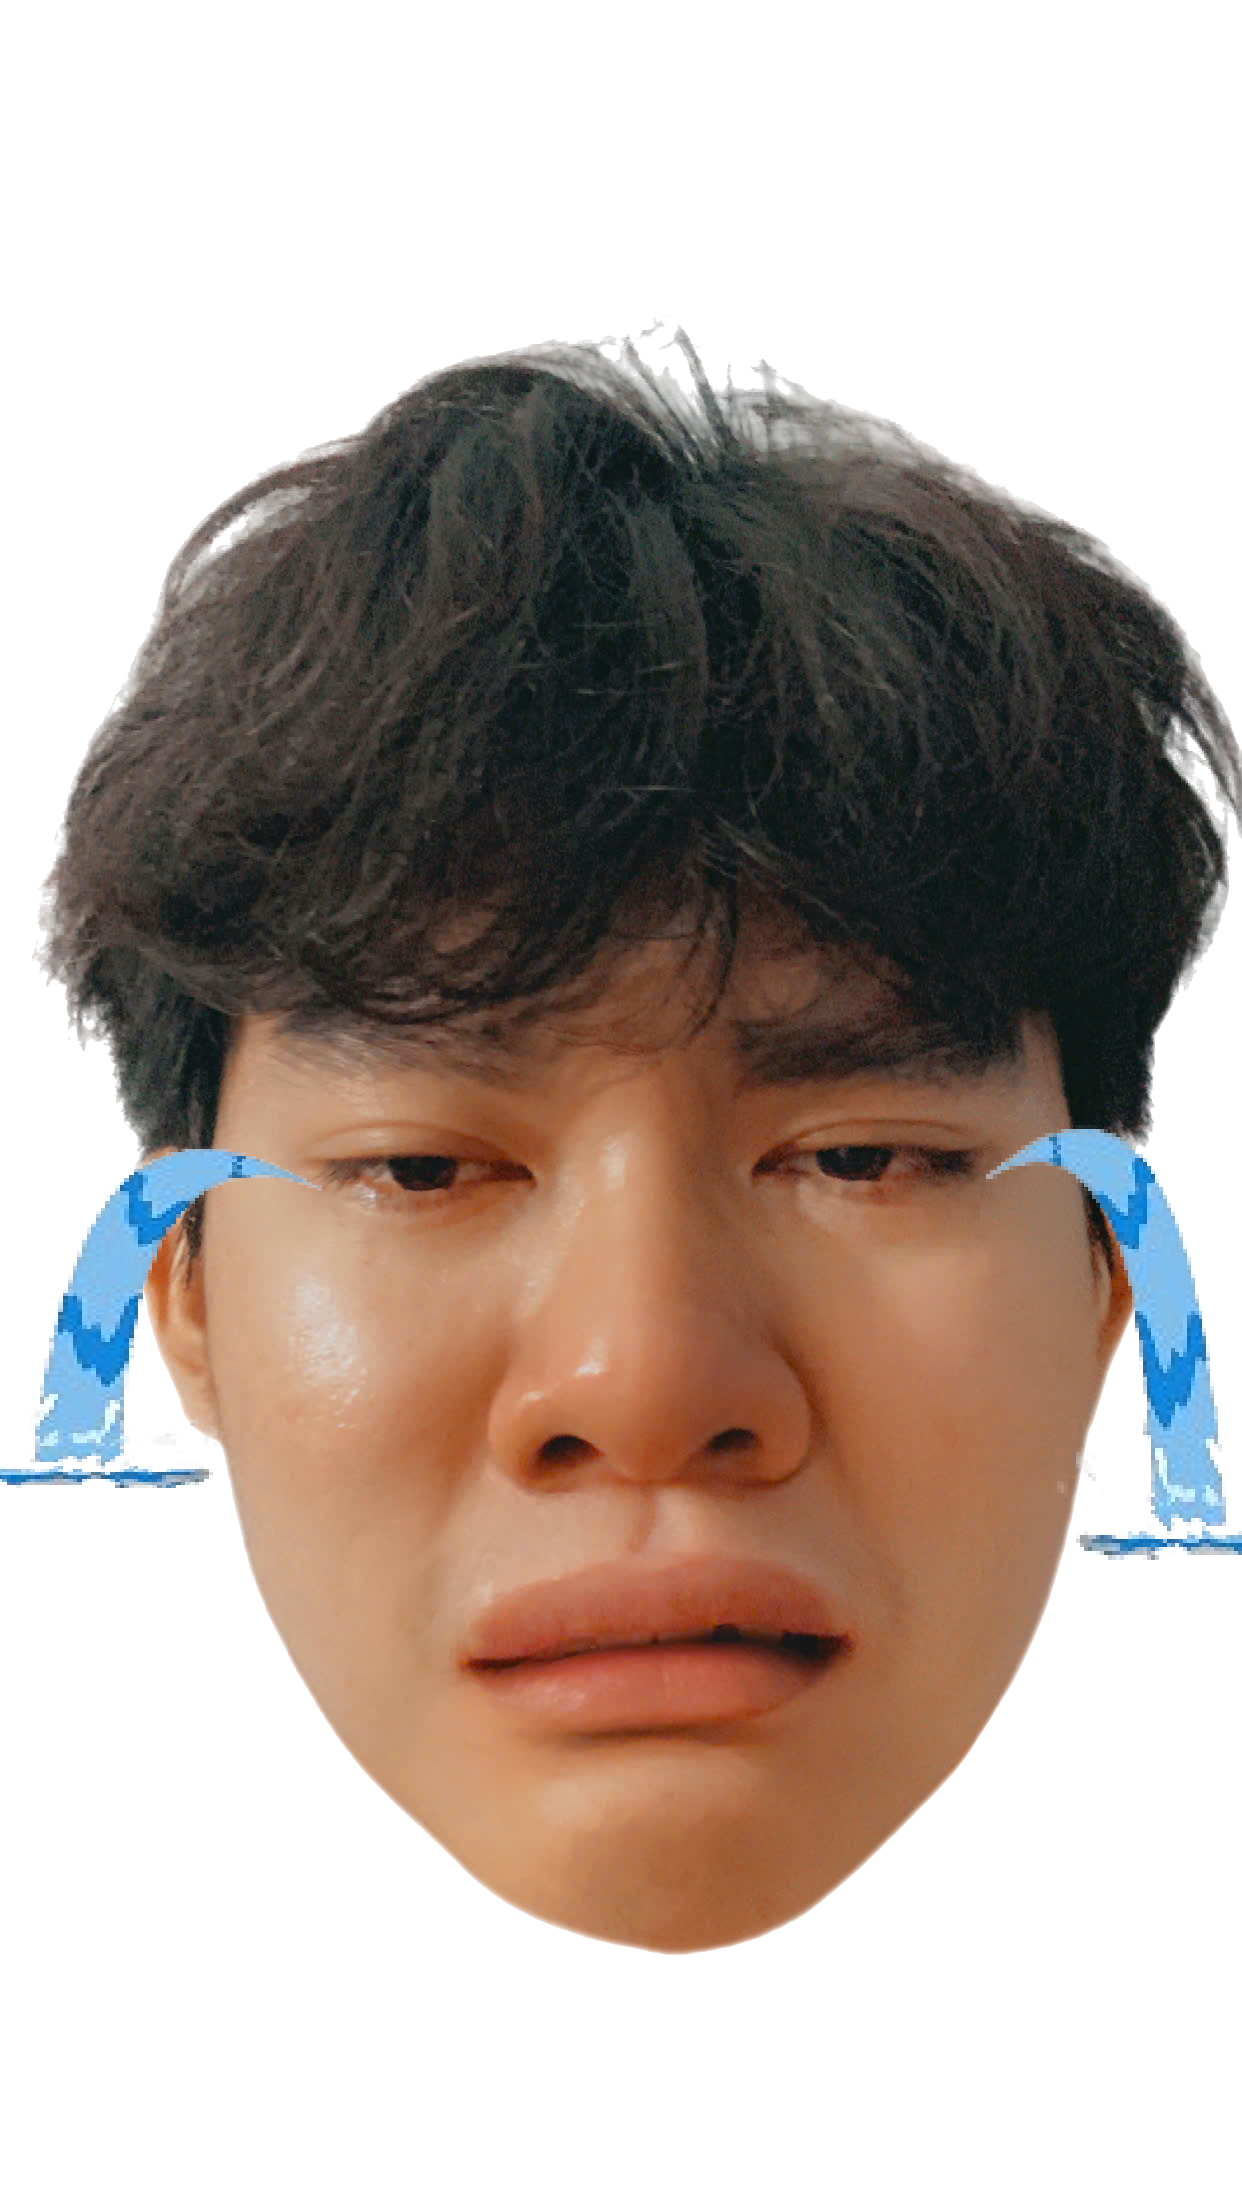
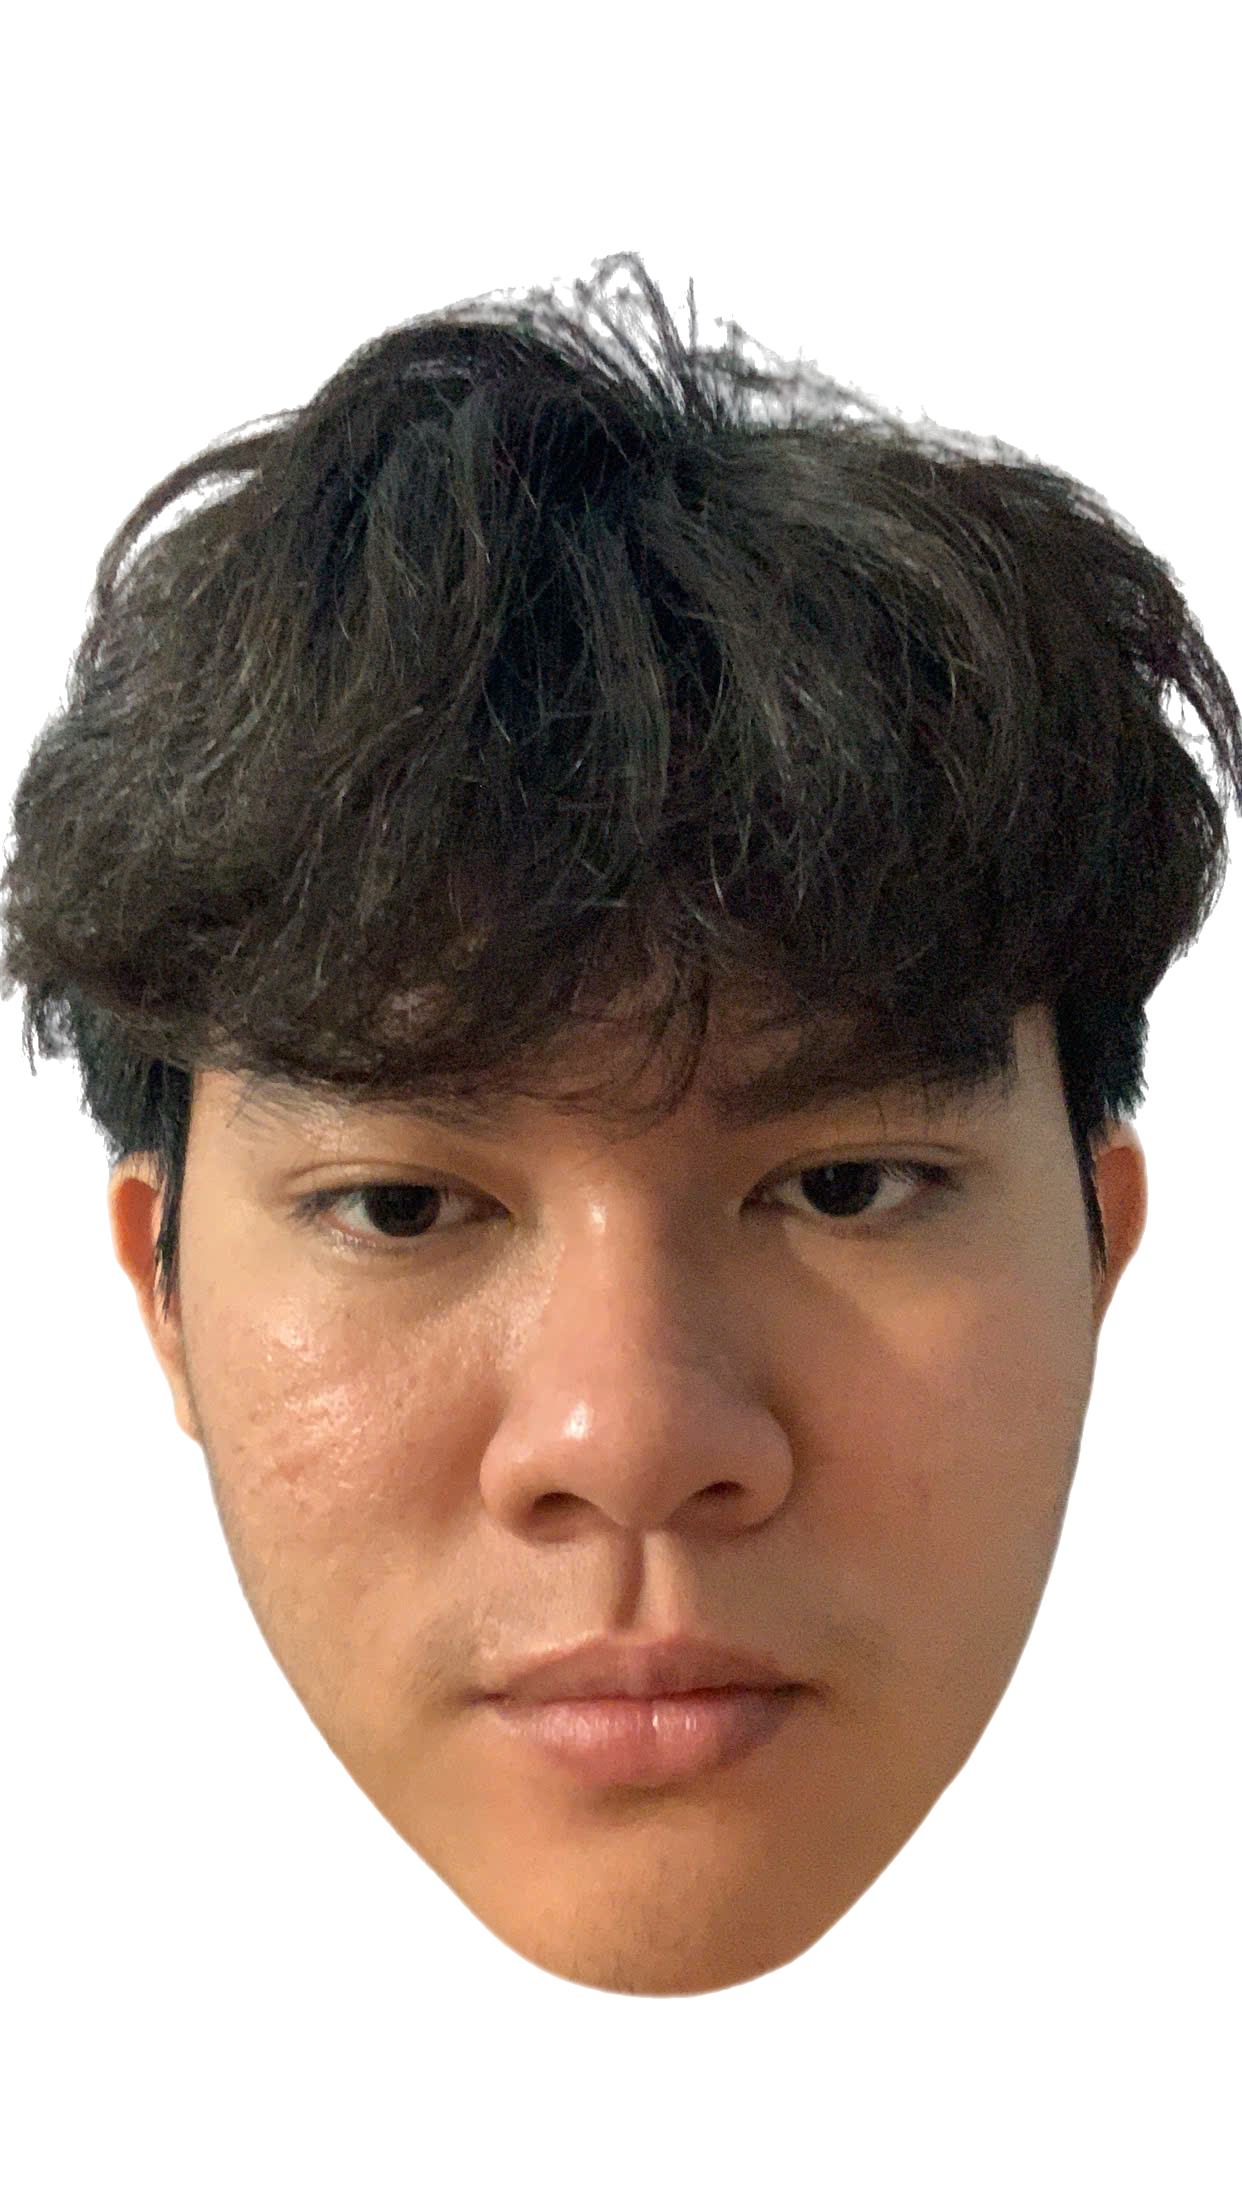
plDoll add TH

Changed region(s): [[0.0, 0.0938, 1.0, 0.9062]]

diff --git a/pages/plDoll/main.js b/pages/plDoll/main.js
@@ -34,6 +34,7 @@ Main.render = function () {
     const gameContainer = document.getElementById("game-container");
     const width = gameContainer.clientWidth;
     const height = gameContainer.clientHeight;
+    const startPosPL = 3*width / 4;
     const render = Render.create({
         element: gameContainer,
         engine: engine,
@@ -49,7 +50,7 @@ Main.render = function () {
     const runner = Runner.create();
     Runner.run(runner, engine);
 
-    const head = Bodies.circle(width / 2, height / 2, 80, { 
+    const head = Bodies.circle(startPosPL, height / 2, 80, { 
         restitution: 0.5,
         render: {
             sprite: {
@@ -59,7 +60,7 @@ Main.render = function () {
             }
         }
     });
-    const body = Bodies.rectangle(width / 2, height / 2 + 80, 50, 80, { 
+    const body = Bodies.rectangle(startPosPL, height / 2 + 80, 50, 80, { 
         restitution: 0.5,
         render: {
             sprite: {
@@ -69,7 +70,7 @@ Main.render = function () {
             }
         }
     });
-    const leftArm = Bodies.rectangle(width / 2 - 30, height / 2 + 80, 60, 15, { 
+    const leftArm = Bodies.rectangle(startPosPL - 30, height / 2 + 80, 60, 15, { 
         restitution: 0.5,
         render: {
             sprite: {
@@ -79,7 +80,7 @@ Main.render = function () {
             }
         }
     });
-    const rightArm = Bodies.rectangle(width / 2 + 30, height / 2 + 80, 60, 15, { 
+    const rightArm = Bodies.rectangle(startPosPL + 30, height / 2 + 80, 60, 15, { 
         restitution: 0.5,
         render: {
             sprite: {
@@ -89,7 +90,7 @@ Main.render = function () {
             }
         }
     });
-    const leftLeg = Bodies.rectangle(width / 2 - 10, height / 2 + 160, 20, 80, { 
+    const leftLeg = Bodies.rectangle(startPosPL - 10, height / 2 + 160, 20, 80, { 
         restitution: 0.5,
         render: {
             sprite: {
@@ -99,7 +100,7 @@ Main.render = function () {
             }
         }
     });
-    const rightLeg = Bodies.rectangle(width / 2 + 10, height / 2 + 160, 20, 80, { 
+    const rightLeg = Bodies.rectangle(startPosPL + 10, height / 2 + 160, 20, 80, { 
         restitution: 0.5,
         render: {
             sprite: {
@@ -159,9 +160,124 @@ Main.render = function () {
         stiffness: 1.0, 
         render: { visible: false } 
     });
+
+    const startPosTH = width / 4;
+
+    const headTH = Bodies.circle(startPosTH, height / 2, 80, { 
+        restitution: 0.5,
+        render: {
+            sprite: {
+                texture: 'images/headTH.png',
+                xScale: 0.45,
+                yScale: 0.45,
+            }
+        }
+    });
+    const bodyTH = Bodies.rectangle(startPosTH, height, 50, 80, { 
+        restitution: 0.5,
+        render: {
+            sprite: {
+                texture: 'images/bodyTH.png',
+                xScale: 0.4,
+                yScale: 0.4,
+            }
+        }
+    });
+    const leftArmTH = Bodies.rectangle(startPosTH - 30, height / 2 + 80, 60, 15, { 
+        restitution: 0.5,
+        render: {
+            sprite: {
+                texture: 'images/arm.png',
+                xScale: 0.3,
+                yScale: 0.3,
+            }
+        }
+    });
+    const rightArmTH = Bodies.rectangle(startPosTH + 30, height / 2 + 80, 60, 15, { 
+        restitution: 0.5,
+        render: {
+            sprite: {
+                texture: 'images/arm.png',
+                xScale: 0.3,
+                yScale: 0.3,
+            }
+        }
+    });
+    const leftLegTH = Bodies.rectangle(startPosTH - 10, height / 2 + 160, 20, 80, { 
+        restitution: 0.5,
+        render: {
+            sprite: {
+                texture: 'images/legTH.png',
+                xScale: 0.3,
+                yScale: 0.3,
+            }
+        }
+    });
+    const rightLegTH = Bodies.rectangle(startPosTH + 10, height / 2 + 160, 20, 80, { 
+        restitution: 0.5,
+        render: {
+            sprite: {
+                texture: 'images/legTH.png',
+                xScale: 0.3,
+                yScale: 0.3,
+            }
+        }
+    });
+
+    const neckTH = Constraint.create({ 
+        bodyA: headTH, 
+        bodyB: bodyTH, 
+        pointA: { x: 0, y: 90 }, 
+        pointB: { x: 0, y: -30 },
+        length: 5, 
+        stiffness: 1.0, 
+        render: { visible: false } 
+    });
+    
+    const leftShoulderTH = Constraint.create({ 
+        bodyA: bodyTH, 
+        bodyB: leftArmTH, 
+        pointA: { x: -25, y: -25 }, 
+        pointB: { x: 25, y: 0 }, 
+        length: 5, 
+        stiffness: 1.0, 
+        render: { visible: false } 
+    });
+    
+    const rightShoulderTH = Constraint.create({ 
+        bodyA: bodyTH, 
+        bodyB: rightArmTH, 
+        pointA: { x: 25, y: -25 }, 
+        pointB: { x: -25, y: 0 }, 
+        length: 5, 
+        stiffness: 1.0, 
+        render: { visible: false } 
+    });
+    
+    const leftHipTH = Constraint.create({ 
+        bodyA: bodyTH, 
+        bodyB: leftLegTH, 
+        pointA: { x: -15, y: 50 }, 
+        pointB: { x: 0, y: -25 }, 
+        length: 5, 
+        stiffness: 1.0, 
+        render: { visible: false } 
+    });
+    
+    const rightHipTH = Constraint.create({ 
+        bodyA: bodyTH, 
+        bodyB: rightLegTH, 
+        pointA: { x: 15, y: 50 }, 
+        pointB: { x: 0, y: -25 }, 
+        length: 5, 
+        stiffness: 1.0, 
+        render: { visible: false } 
+    });
+    
     
     // Add everything to the world
     Composite.add(world, [leftArm, rightArm, leftLeg, rightLeg, body, head, neck, leftShoulder, rightShoulder, leftHip, rightHip]);
+    Composite.add(world, [leftArmTH, rightArmTH, leftLegTH, rightLegTH, bodyTH, headTH, neckTH, leftShoulderTH, rightShoulderTH, leftHipTH, rightHipTH]);
 
     const leftWall = Bodies.rectangle(0, height / 2, 10, height, { 
         isStatic: true, 

diff --git a/index.html b/index.html
@@ -141,13 +141,13 @@
 								<P>PL đồ chơi búp bê.</P>
 							</div>
 						</div>
-						<div class="col-md-4 col-sm-6 col-xs-12 cursor-pointer" onclick="window.location.href='pages/runningCheck'">
+						<!-- <div class="col-md-4 col-sm-6 col-xs-12 cursor-pointer" onclick="window.location.href='pages/runningCheck'">
 							<div class="single-service">
 								<i class="fa fa-map-marker"></i>
 								<h4>PL nhật ký chạy bộ</h4>
 								<P>Lưu trữ lịch sử giảm cân</P>
 							</div>
-						</div>
+						</div> -->
 					</div>
 				</div>	<!-- END CONTAINER -->
 			</section>
